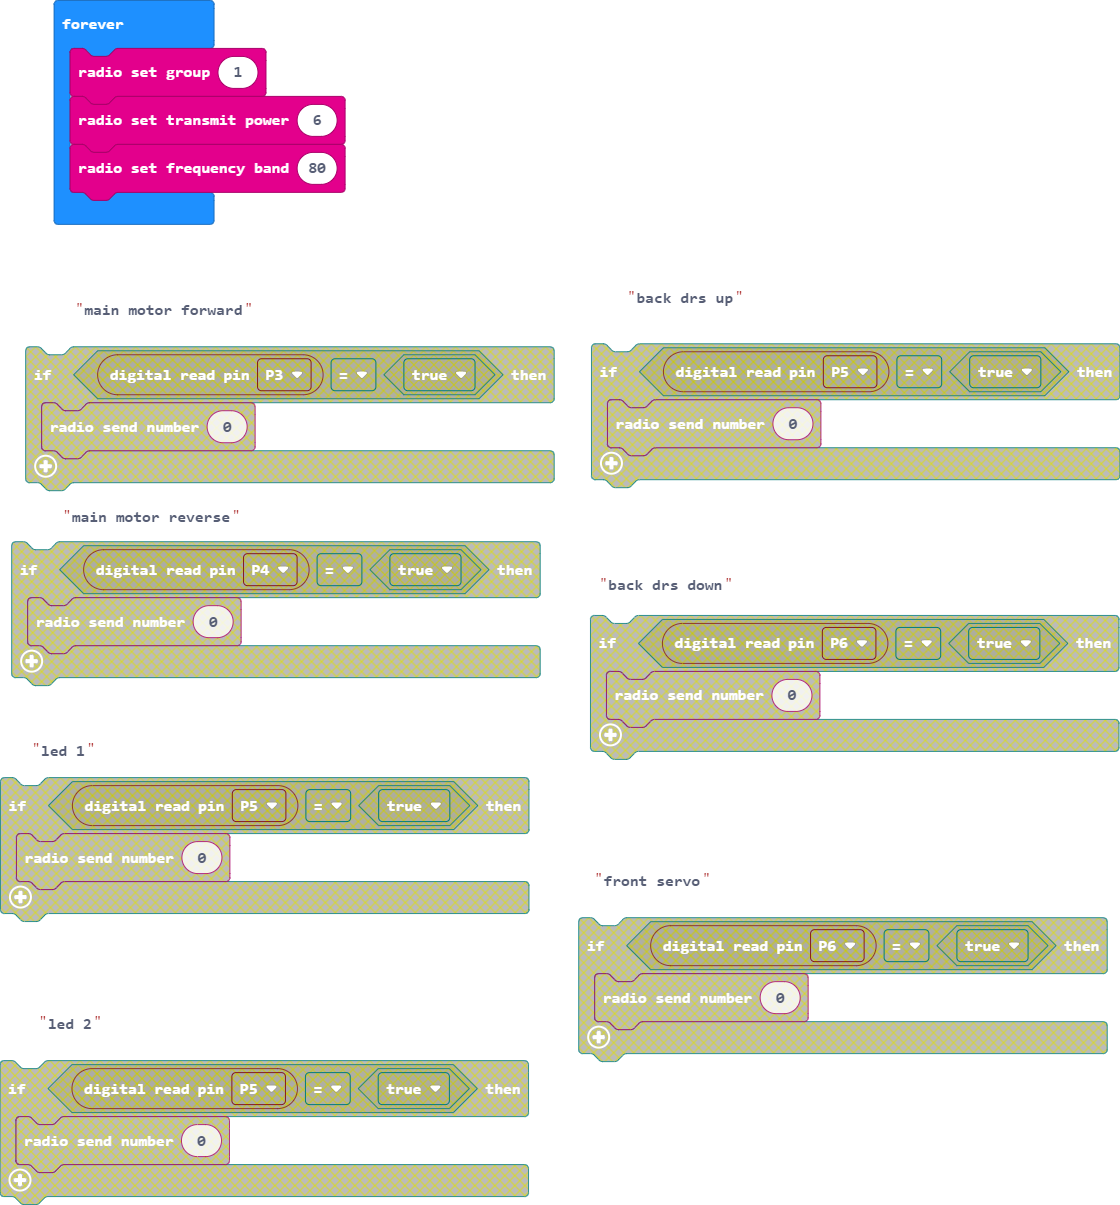
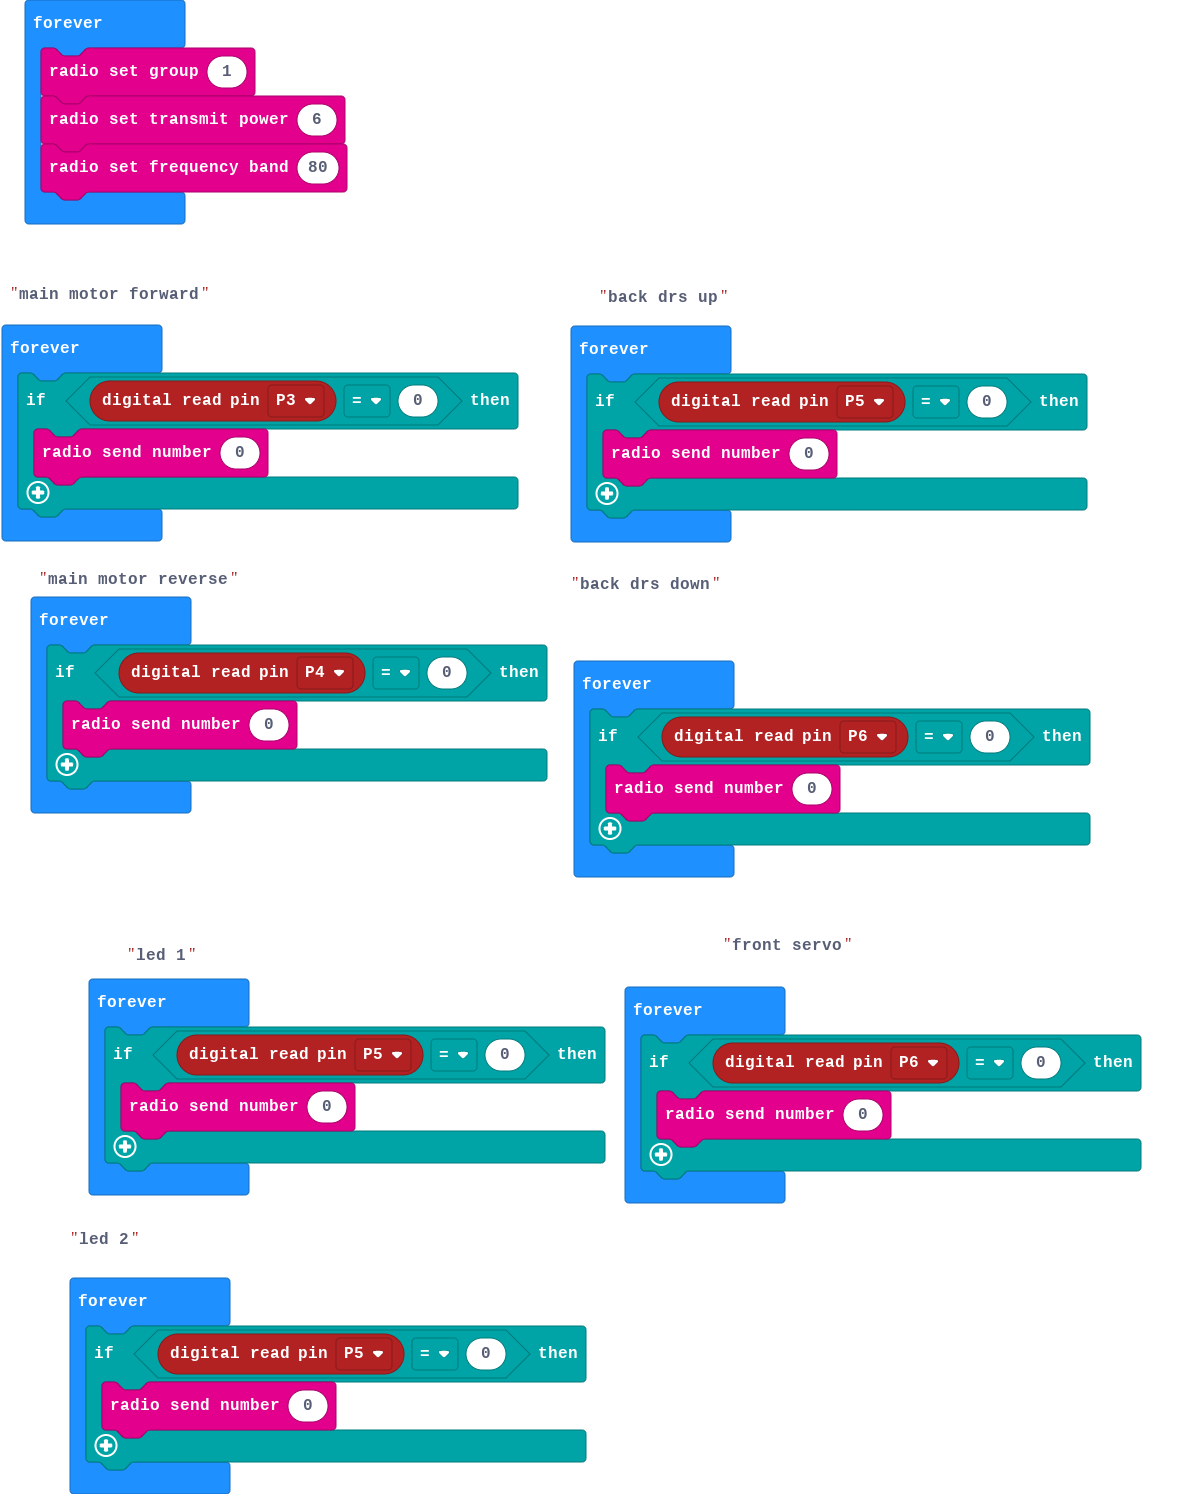
Update main.blocks, main.ts

diff --git a/main.ts b/main.ts
@@ -3,3 +3,38 @@ basic.forever(function () {
     radio.setTransmitPower(6)
     radio.setFrequencyBand(80)
 })
+basic.forever(function () {
+    if (pins.digitalReadPin(DigitalPin.P3) == 0) {
+        radio.sendNumber(0)
+    }
+})
+basic.forever(function () {
+    if (pins.digitalReadPin(DigitalPin.P5) == 0) {
+        radio.sendNumber(0)
+    }
+})
+basic.forever(function () {
+    if (pins.digitalReadPin(DigitalPin.P4) == 0) {
+        radio.sendNumber(0)
+    }
+})
+basic.forever(function () {
+    if (pins.digitalReadPin(DigitalPin.P6) == 0) {
+        radio.sendNumber(0)
+    }
+})
+basic.forever(function () {
+    if (pins.digitalReadPin(DigitalPin.P5) == 0) {
+        radio.sendNumber(0)
+    }
+})
+basic.forever(function () {
+    if (pins.digitalReadPin(DigitalPin.P6) == 0) {
+        radio.sendNumber(0)
+    }
+})
+basic.forever(function () {
+    if (pins.digitalReadPin(DigitalPin.P5) == 0) {
+        radio.sendNumber(0)
+    }
+})
